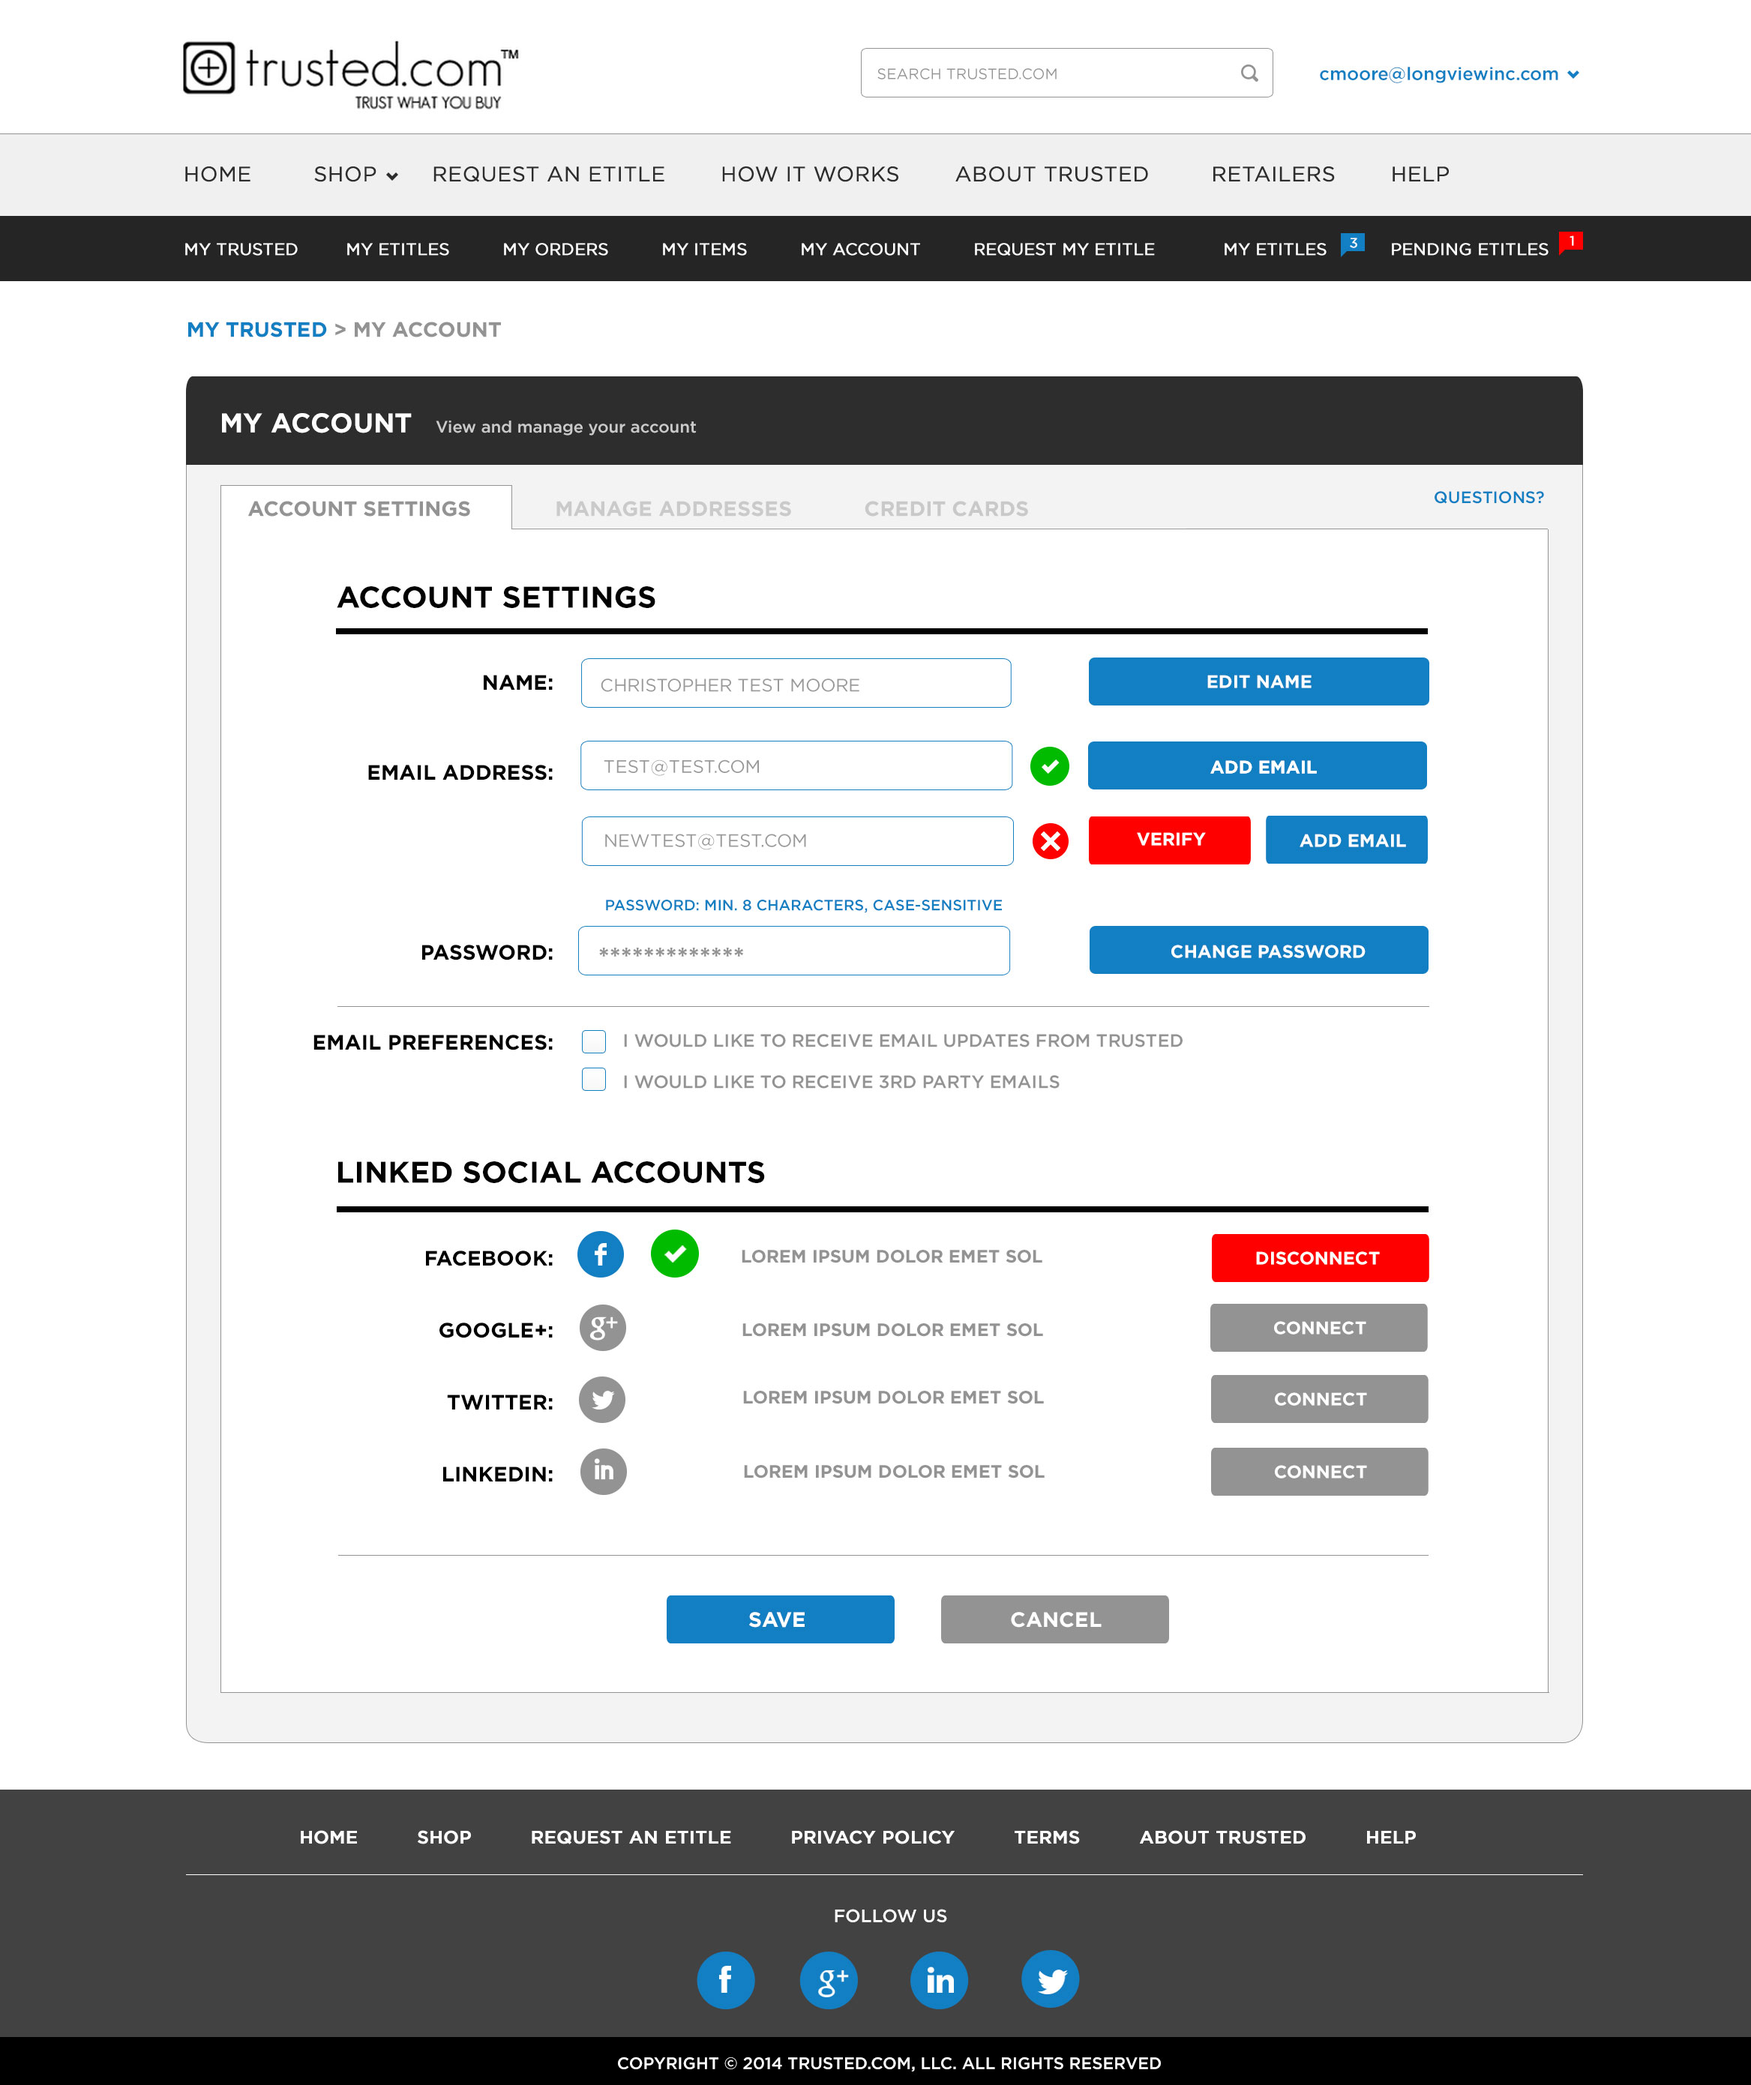
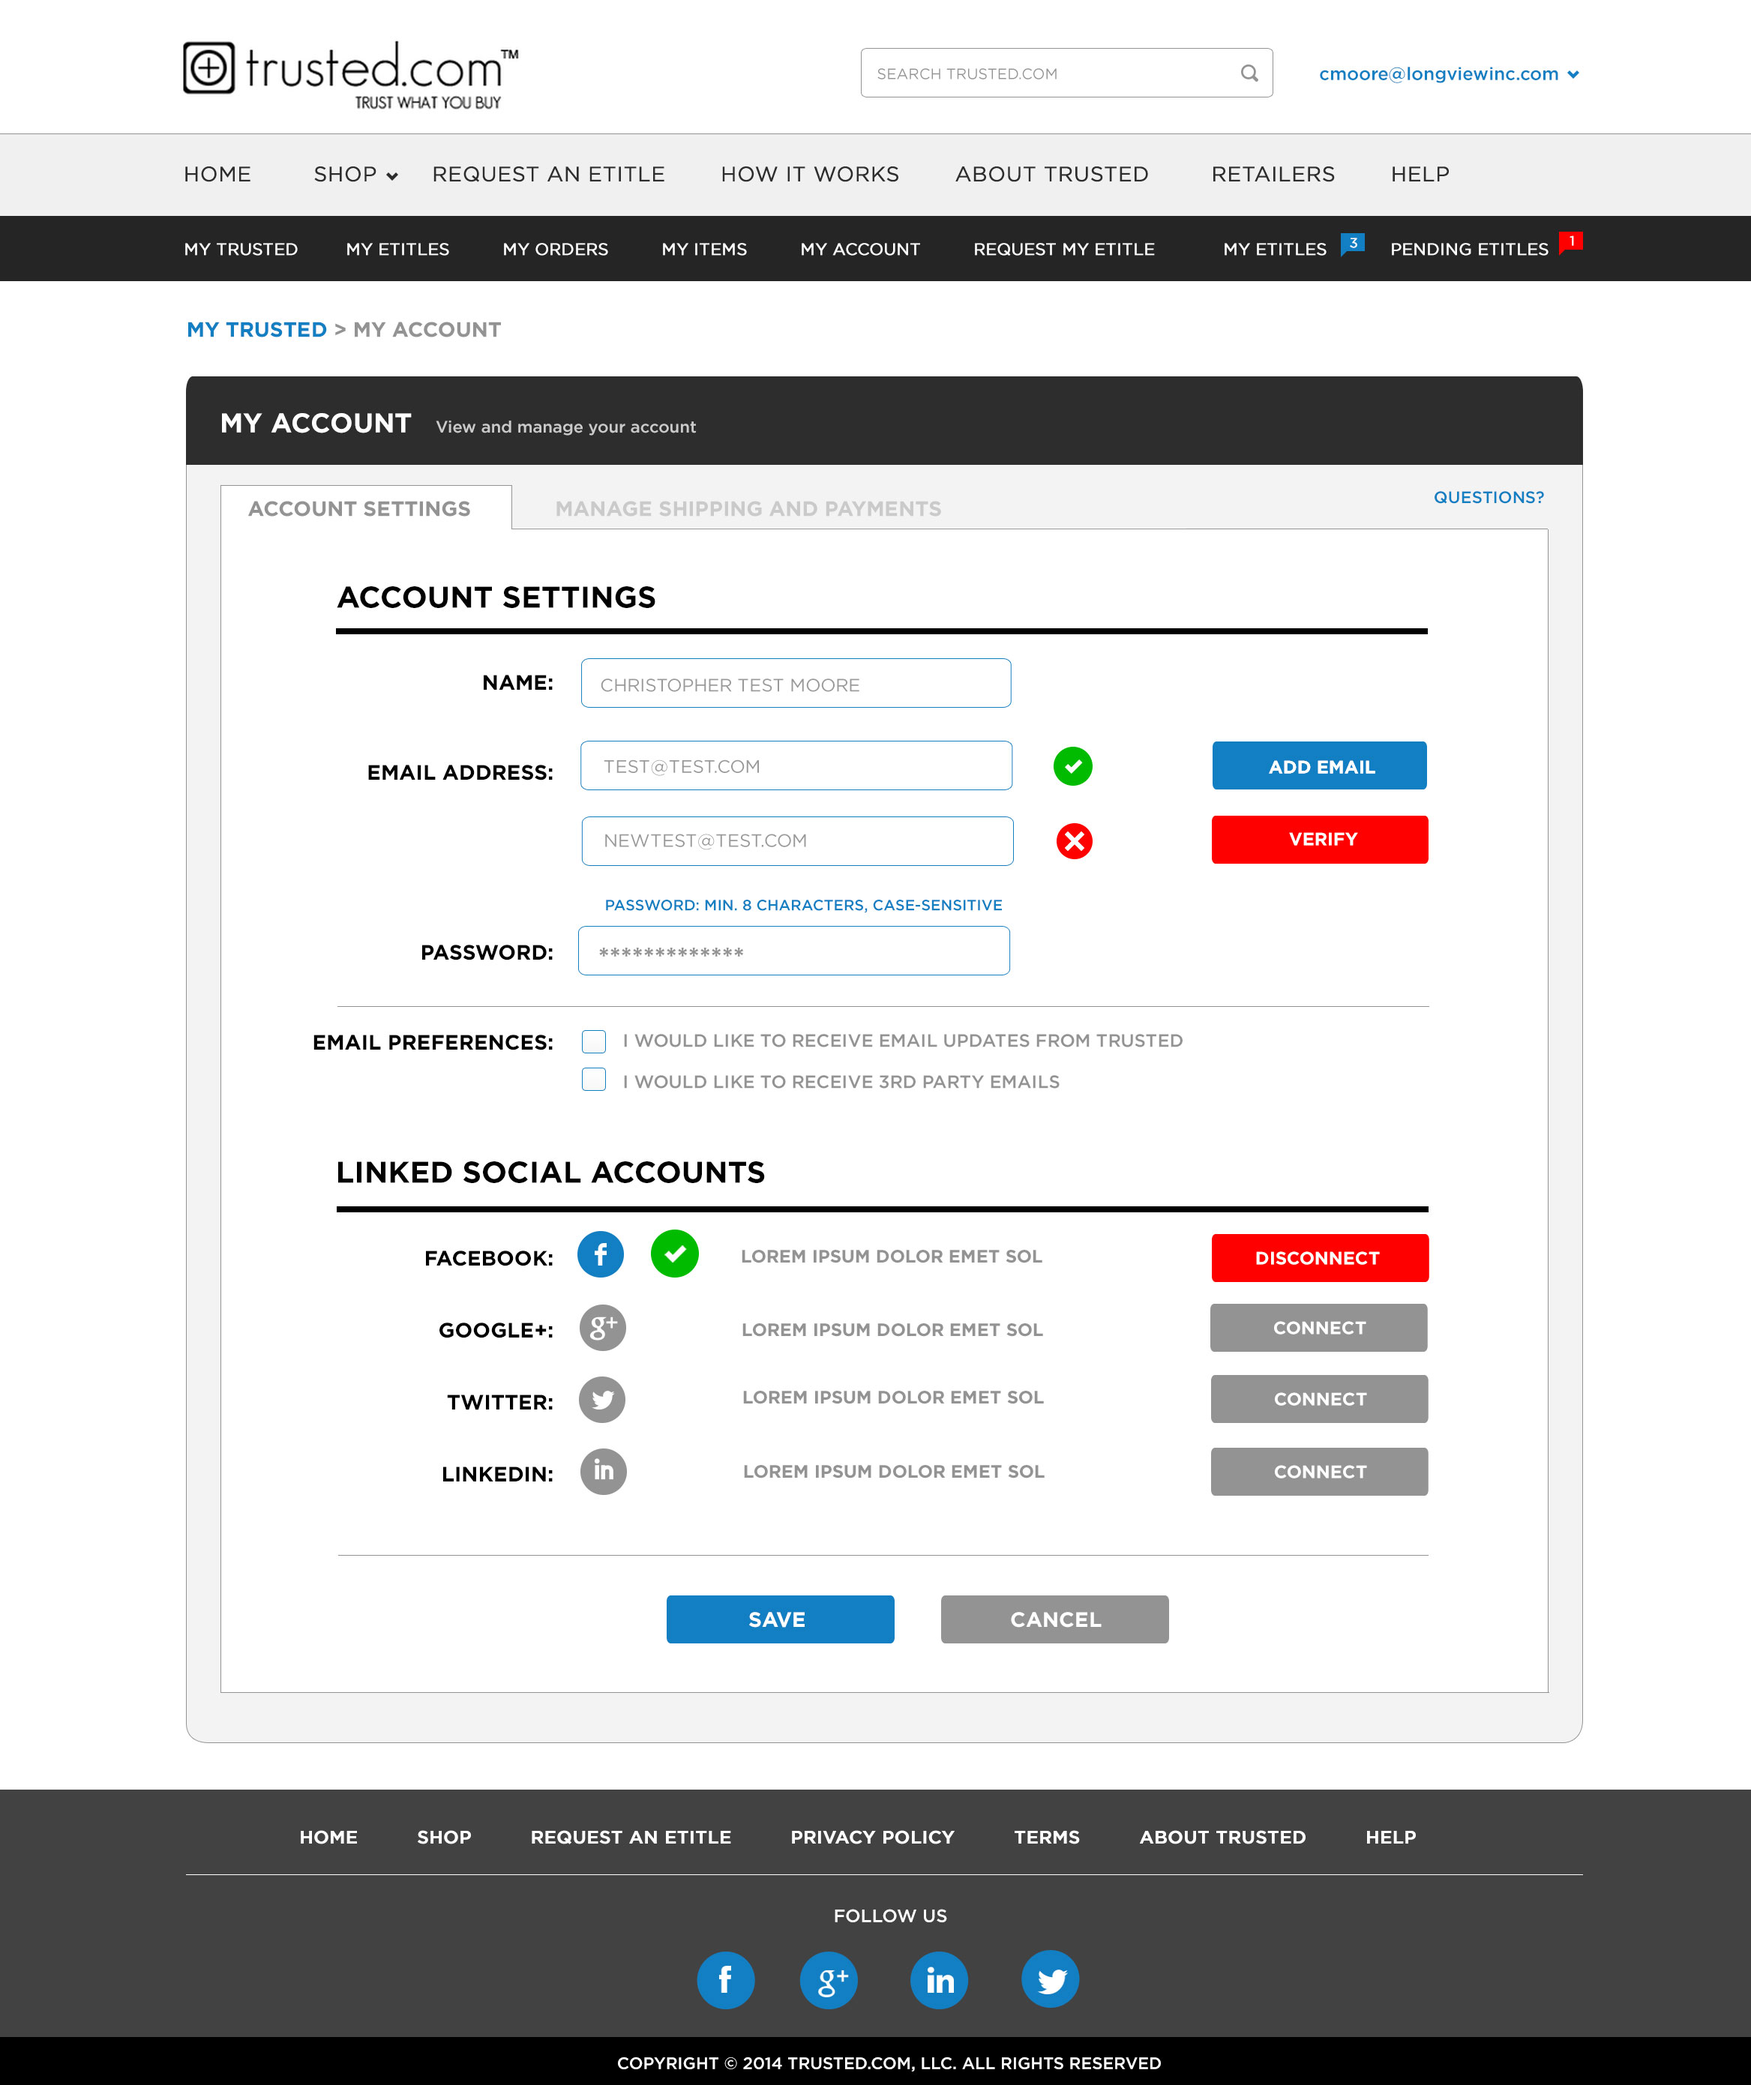
Updates

diff --git a/edit-address.html b/edit-address.html
@@ -15,15 +15,15 @@ img {
 }
 </style>
 <body>
-<img src="images/trusted-account-profile-main-edit-ship-ux.jpg" alt="" width="2335" height="2461" usemap="#Map"/>
+<img src="images/trusted-edit-shipping-main-ux.jpg" alt="" width="2335" height="2461" usemap="#Map"/>
 <map name="Map"><area shape="rect" coords="431,154,513,179" href="my-items.html">
   <area shape="rect" coords="529,151,630,179" href="account-profile.html">
   <area shape="rect" coords="326,153,415,181" href="my-orders.html">
   <area shape="rect" coords="227,153,313,182" href="my-etitles.html">
   <area shape="rect" coords="117,153,206,183" href="index.html"> 
   <area shape="rect" coords="646,153,778,181" href="request.html">
-  <area shape="rect" coords="297,324,449,354" href="credit-card.html">
-  <area shape="rect" coords="425,882,582,919" href="account-profile.html">
+  <area shape="rect" coords="169,324,321,354" href="account-profile.html">
+  <area shape="rect" coords="429,808,586,845" href="account-profile.html">
 </map>
 </body>
 </html>

diff --git a/account-profile.html b/account-profile.html
@@ -15,16 +15,14 @@ img {
 }
 </style>
 <body>
-<img src="images/trusted-account-profile-main-ux.jpg" alt="" width="2335" height="2461" usemap="#Map"/>
+<img src="images/trusted-account-settings-main-ux.jpg" alt="" width="2335" height="2781" usemap="#Map"/>
 <map name="Map"><area shape="rect" coords="431,154,513,179" href="my-items.html">
   <area shape="rect" coords="529,151,630,179" href="account-profile.html">
   <area shape="rect" coords="326,153,415,181" href="my-orders.html">
   <area shape="rect" coords="227,153,313,182" href="my-etitles.html">
   <area shape="rect" coords="117,153,206,183" href="index.html"> 
   <area shape="rect" coords="646,153,778,181" href="request.html">
-  <area shape="rect" coords="297,324,449,354" href="credit-card.html">
-  <area shape="rect" coords="223,439,548,474" href="address-add.html">
-  <area shape="rect" coords="225,621,375,658" href="edit-address.html">
+  <area shape="rect" coords="352,322,644,357" href="credit-card.html">
 </map>
 </body>
 </html>

diff --git a/credit-card.html b/credit-card.html
@@ -15,12 +15,13 @@ img {
 }
 </style>
 <body>
-<img src="images/trusted-credit-cards-ux.jpg" alt="" width="2335" height="2461" usemap="#Map"/>
+<img src="images/trusted-manage-address-main-ux.jpg" alt="" width="2335" height="2461" usemap="#Map"/>
 <map name="Map"><area shape="rect" coords="431,154,513,179" href="my-items.html"><area shape="rect" coords="529,151,630,179" href="account-profile.html"><area shape="rect" coords="646,153,778,181" href="request.html">
   <area shape="rect" coords="329,152,418,180" href="my-orders.html">
   <area shape="rect" coords="227,153,313,182" href="my-etitles.html">
   <area shape="rect" coords="117,153,206,183" href="index.html">
-  <area shape="rect" coords="145,323,297,353" href="account-profile.html">
+  <area shape="rect" coords="145,323,329,352" href="account-profile.html">
+  <area shape="rect" coords="726,439,836,476" href="edit-address.html">
 </map>
 </body>
 </html>
